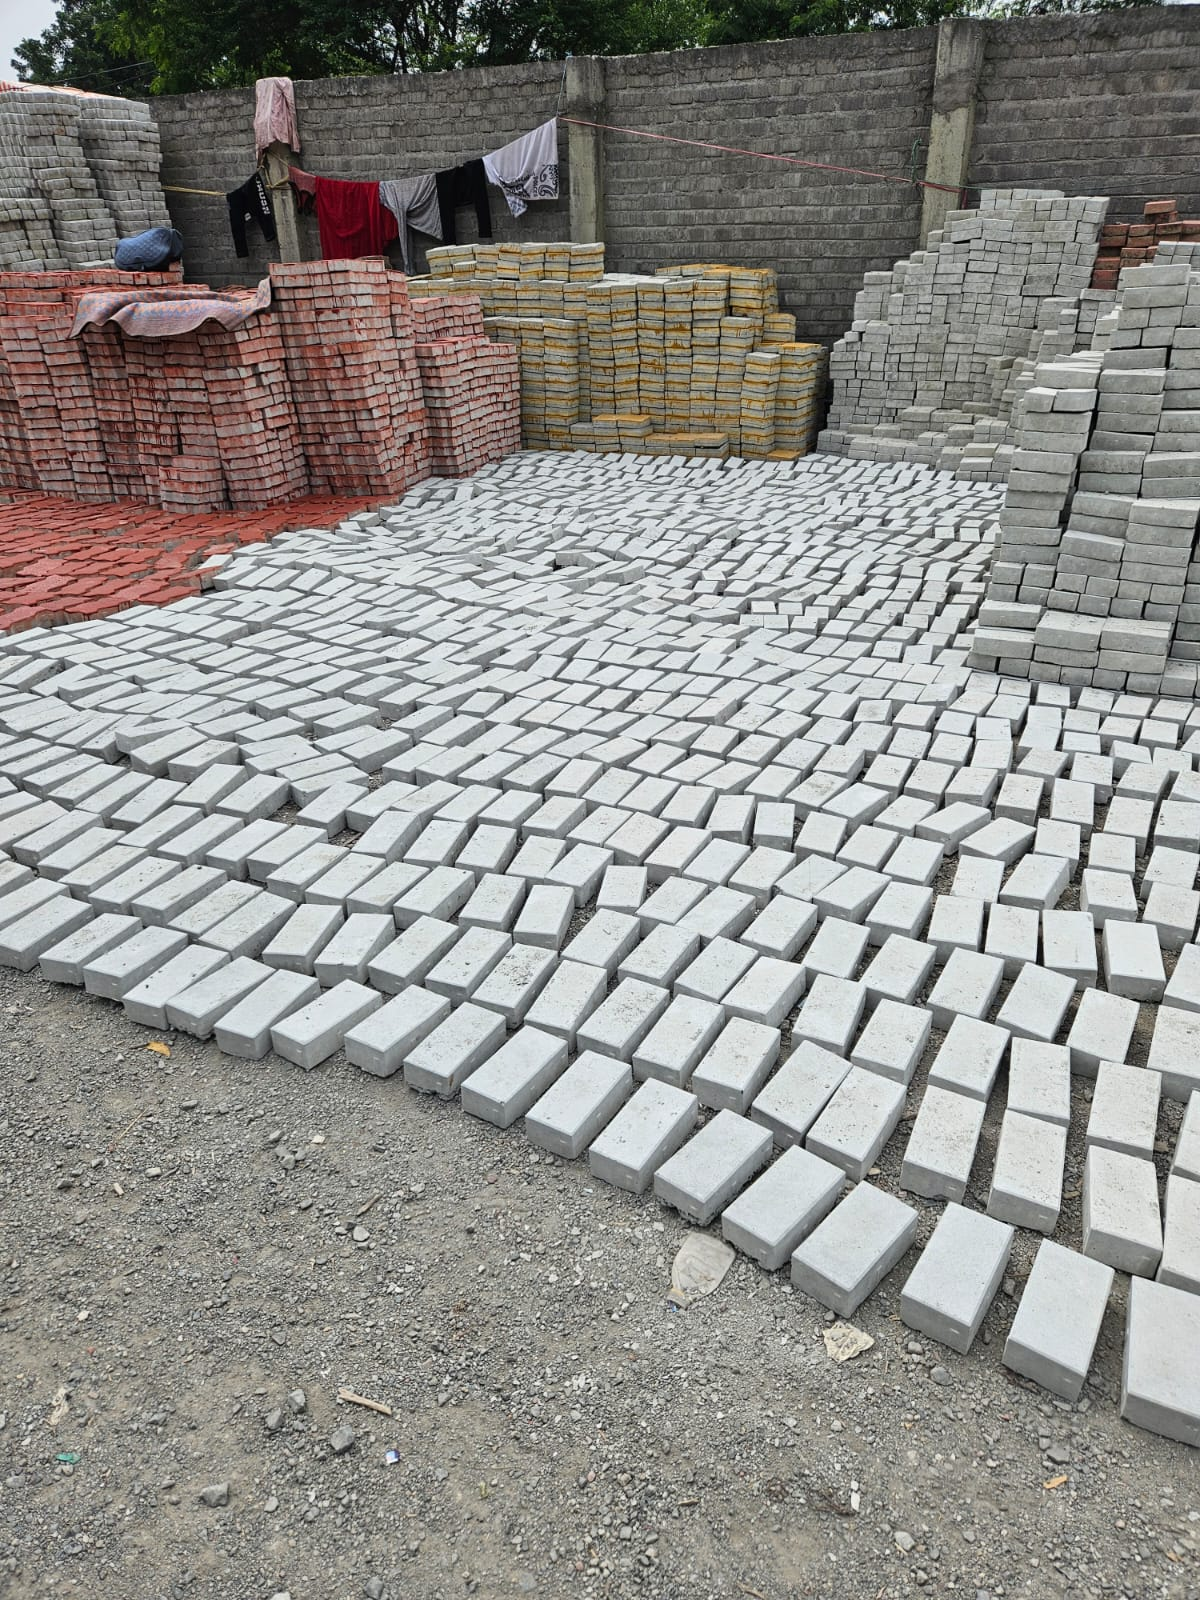
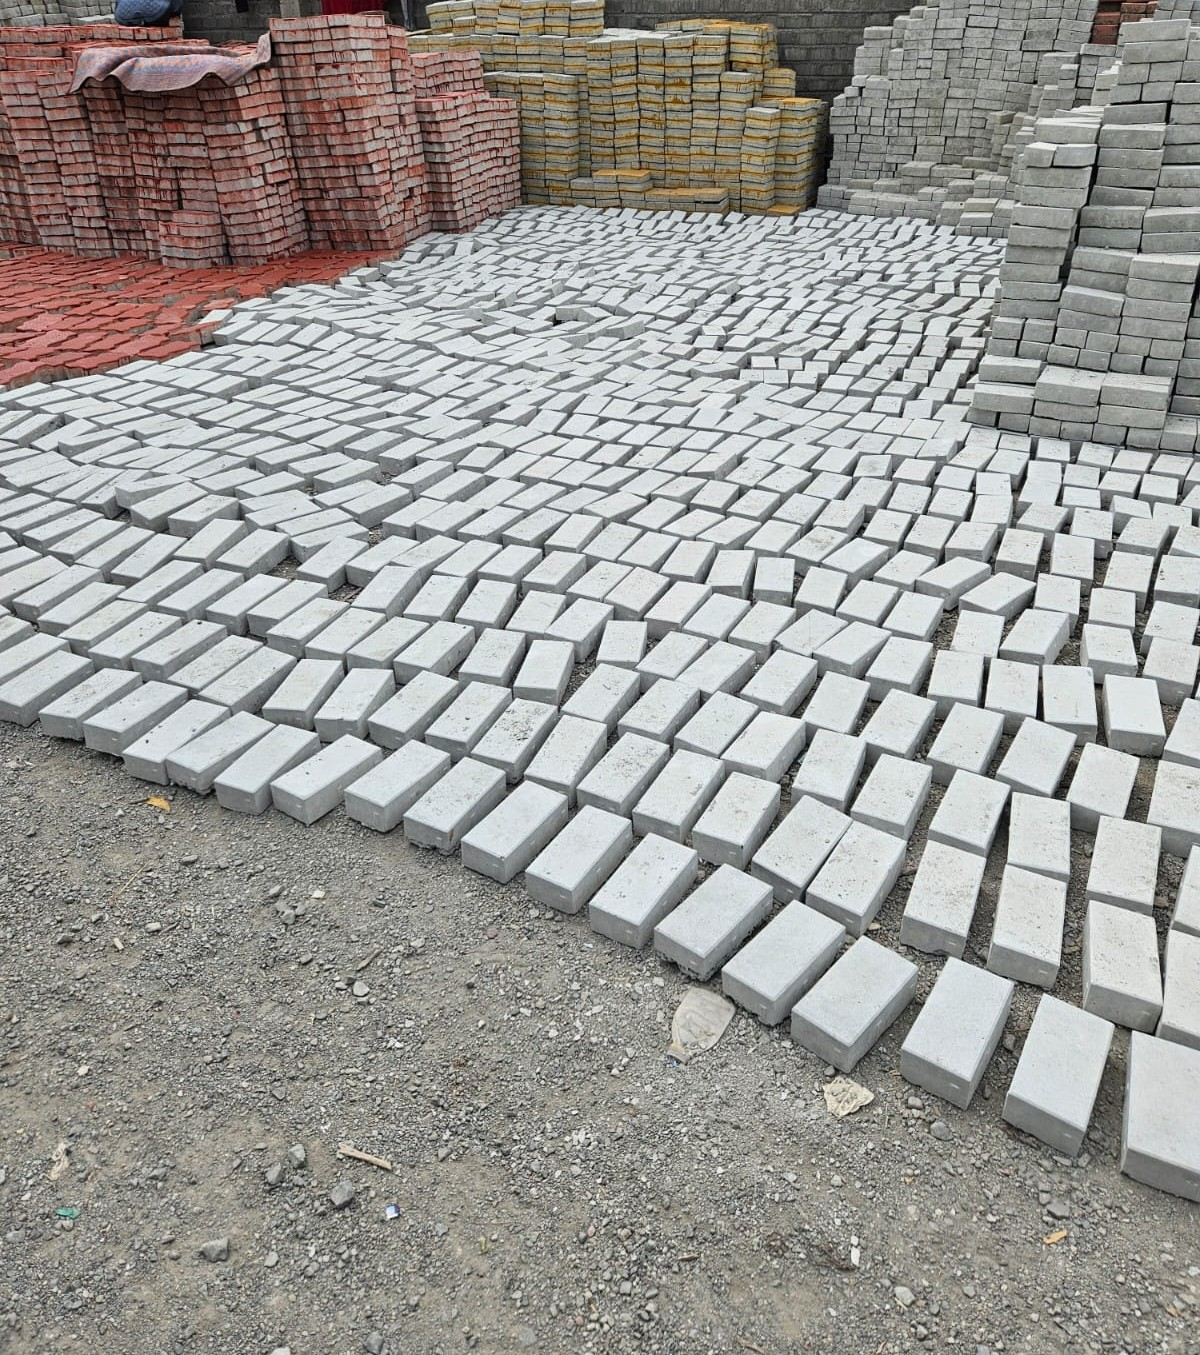
auto-commit for afe942ff-b40c-4b53-a3cb-bbfff630f26c

diff --git a/frontend/src/data/productImages.js b/frontend/src/data/productImages.js
@@ -21,7 +21,6 @@ export const PRODUCT_IMAGES = {
     `${P}Kerb-With-Saucer-2.jpeg`,
   ],
   "u-trenches": [
-    `${P}RCC-U-Trench-1.jpeg`,
     `${P}RCC-U-Trench-2.jpeg`,
     `${P}RCC-U-Trench-3.jpeg`,
     `${P}RCC-U-Trench-4.jpeg`,
@@ -113,6 +112,10 @@ export const PRODUCT_IMAGES = {
   "rcc-planters": [
     `${P}RCC-Planter-1.jpeg`,
     `${P}RCC-Planter-2.jpeg`,
+    `${P}RCC_Planters_1.jpeg`,
+    `${P}RCC_Planters_2.jpeg`,
+    `${P}RCC_Planters_3.jpeg`,
+    `${P}RCC_Planters_4.jpeg`,
   ],
   "rcc-fountain": [
     `${P}RCC-Planter-1.jpeg`,
@@ -173,12 +176,18 @@ export const PRODUCT_IMAGES = {
     `${P}Precast-Wall-4.jpeg`,
   ],
   "prestress-compound-wall": [
-    `${P}Precast-Wall-3.jpeg`,
-    `${P}Precast-Wall-4.jpeg`,
+    `${P}RCC_Grill_Compound_Wall_1.jpeg`,
+    `${P}RCC_Grill_Compound_Wall_2.jpeg`,
+    `${P}RCC_Grill_Compound_Wall_3.jpeg`,
+    `${P}RCC_Grill_Compound_Wall_4.jpeg`,
+    `${P}RCC_Grill_Compound_Wall_5.jpeg`,
+    `${P}RCC_Grill_Compound_Wall_6.jpeg`,
   ],
   "rcc-fencing-poles": [
-    `${P}Precast-Wall-1.jpeg`,
-    `${P}Precast-Wall-2.jpeg`,
+    `${P}RCC_Fencing_Poles_1.jpeg`,
+    `${P}RCC_Fencing_Poles_2.jpeg`,
+    `${P}RCC_Fencing_Poles_3.jpeg`,
+    `${P}RCC_Fencing_Poles_4.jpeg`,
   ],
 
   // ---------------- Sanitation Solutions ----------------

diff --git a/frontend/src/data/site.js b/frontend/src/data/site.js
@@ -277,7 +277,7 @@ export const CATEGORIES = [
         specs: [{ label: "Heights", values: ["1.5 m", "2 m", "2.5 m", "3 m"] }],
         features: ["Stack-and-lock installation", "Decorative caps & finials", "Fire & termite proof"],
         applications: ["Industrial plots", "Townships", "Farms", "Solar parks"] },
-      { id: "prestress-compound-wall", name: "RCC Prestress Compound Wall", short: "High-strength prestressed panels",
+      { id: "prestress-compound-wall", name: "RCC Grill Compound Wall", short: "High-strength prestressed panels",
         desc: "Prestressed concrete compound wall panels offer higher span-to-depth ratios and superior structural performance for long-run boundary applications.",
         specs: [{ label: "Heights", values: ["1.8 m – 3.5 m"] }],
         features: ["Prestressed for higher strength", "Longer panel spans", "Reduced post quantity"],

diff --git a/memory/PRD.md b/memory/PRD.md
@@ -19,6 +19,11 @@ Home (hero slider + categories), About, Services, Products (40 SKUs in categorie
 - `POST /api/career` — career application → Resend + Mongo
 
 ## Completed (Feb 2026)
+- 2026-02-28: Renamed "RCC Prestress Compound Wall" → "RCC Grill Compound Wall"; swapped images to 6 dedicated `RCC_Grill_Compound_Wall_1..6.jpeg` photos
+- 2026-02-28: RCC Fencing Poles now uses 4 dedicated `RCC_Fencing_Poles_1..4.jpeg` photos
+- 2026-02-28: RCC Planters: appended 4 new `RCC_Planters_1..4.jpeg` photos to existing gallery
+- 2026-02-28: U Trenches: removed `RCC-U-Trench-1.jpeg`
+- 2026-02-28: Paver Blocks: replaced `Paver-Stock-2.jpeg` asset (same filename, new content)
 - 2026-02-28: Removed the Home page "Catalogue" / product-tiles section per request
 - 2026-02-28: Renamed "Soak Pit Chamber" → "Soak Pit Tank" (id kept as `soak-pit-chamber` for stable URL); now uses dedicated Soak_Pit_Tank_1/2 images
 - 2026-02-28: Earthpit Chamber now uses 5 dedicated photos (Earthpit_Chamber_1..5); old RCC-Chamber-Cover-1/2 references removed from this product (still available for other products if needed)